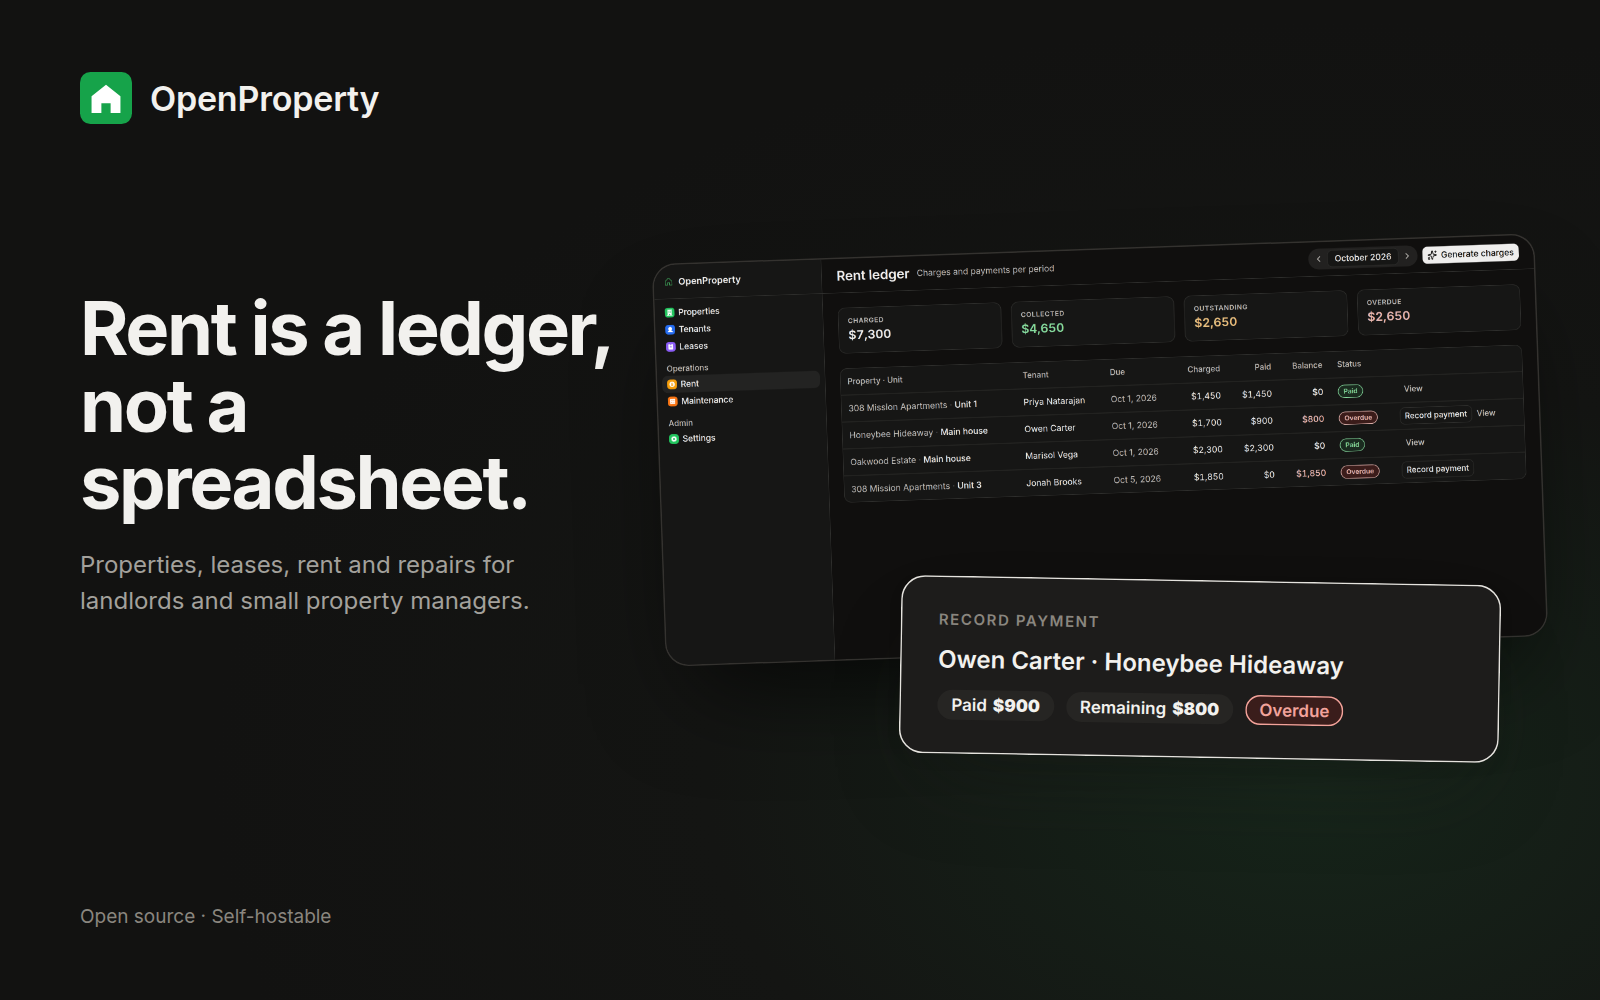
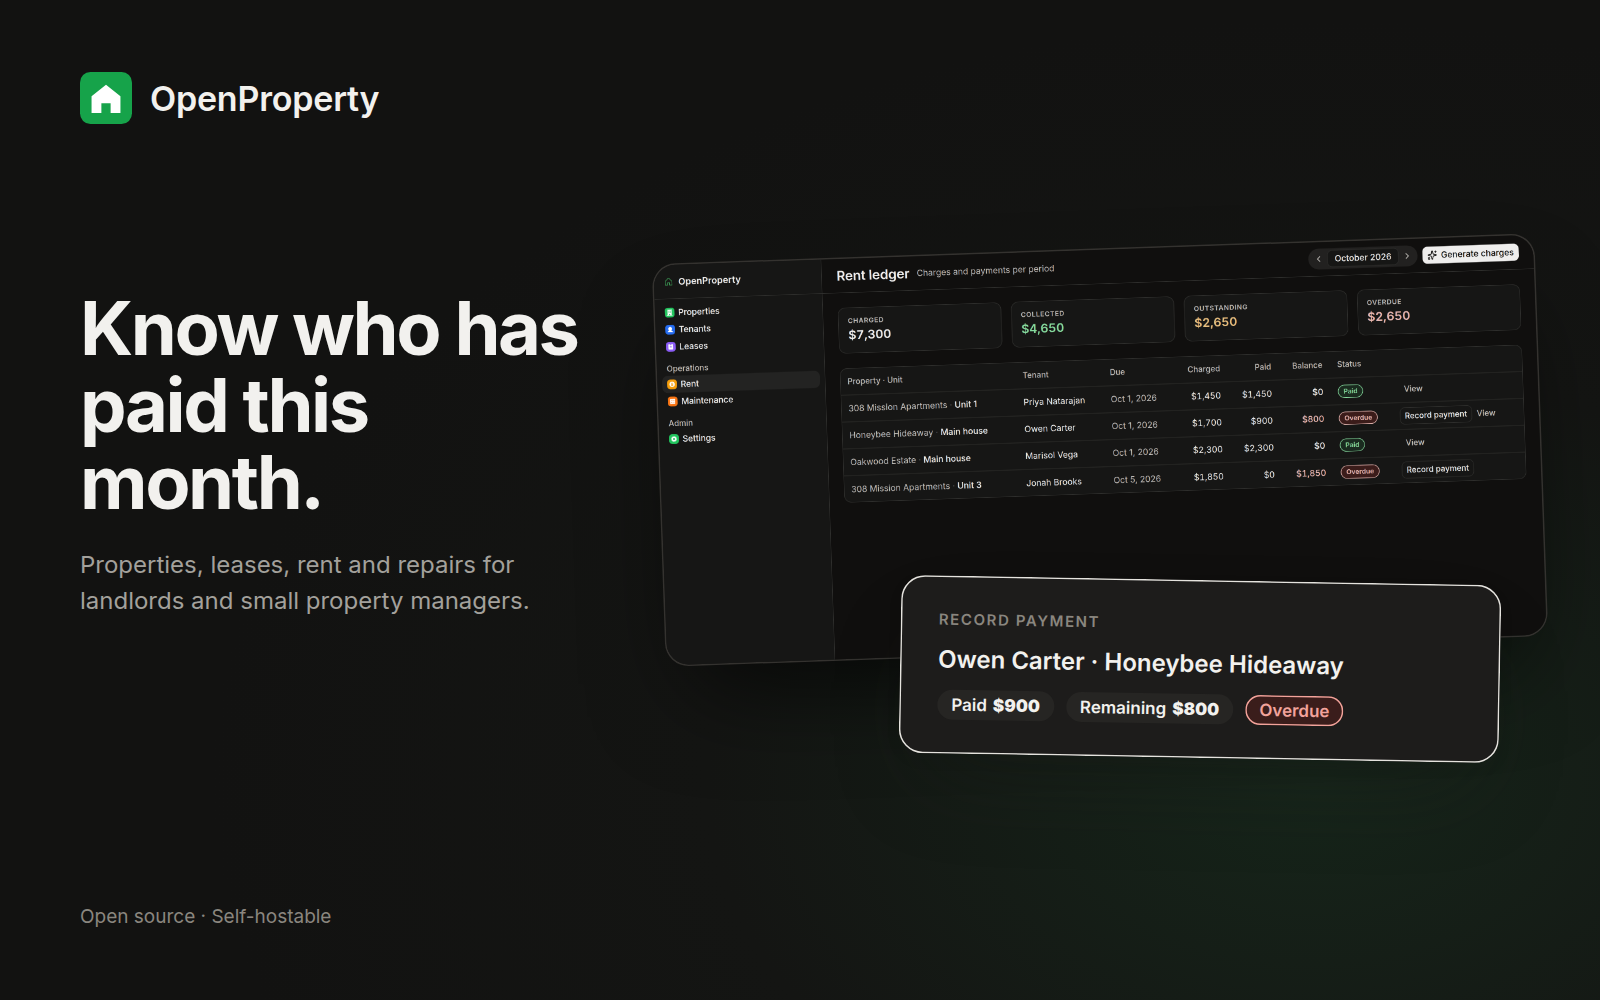
README: lead with who has paid this month

Changed region(s): [[0.0625, 0.279, 0.375, 0.434], [0.0312, 0.434, 0.3438, 0.527]]

diff --git a/README.md b/README.md
@@ -11,10 +11,10 @@ with your vendors.
 
 An open-source app template provided by [Clawnify.com](https://clawnify.com).
 
-**Rent is a ledger, not a spreadsheet.** Every active lease gets one charge per
-month, generated with one click and never twice. Payments are recorded against
-the charge, and its status follows from the money: open, partial, paid or
-overdue. "Who owes what this month" is a filter, not an afternoon.
+**Know who has paid this month.** Every active lease gets one charge per month,
+generated with one click and never twice. Payments are recorded against the
+charge, and its status follows from the money: open, partial, paid or overdue.
+Who still owes rent is one filter away.
 
 [![Deploy with Clawnify](https://app.clawnify.com/deploy-button.svg)](https://app.clawnify.com/deploy?repo=clawnify/OpenProperty)
 
@@ -84,8 +84,8 @@ in production.
 
 ## Data
 
-One SQLite database per install. The schema is `src/server/schema.sql`. Defaults
-and sample data are written by the app on first run, not by the schema.
+One SQLite database per install. The schema is `src/server/schema.sql`. The app
+writes the defaults and sample data on first run.
 
 | Table | Holds |
 |---|---|
